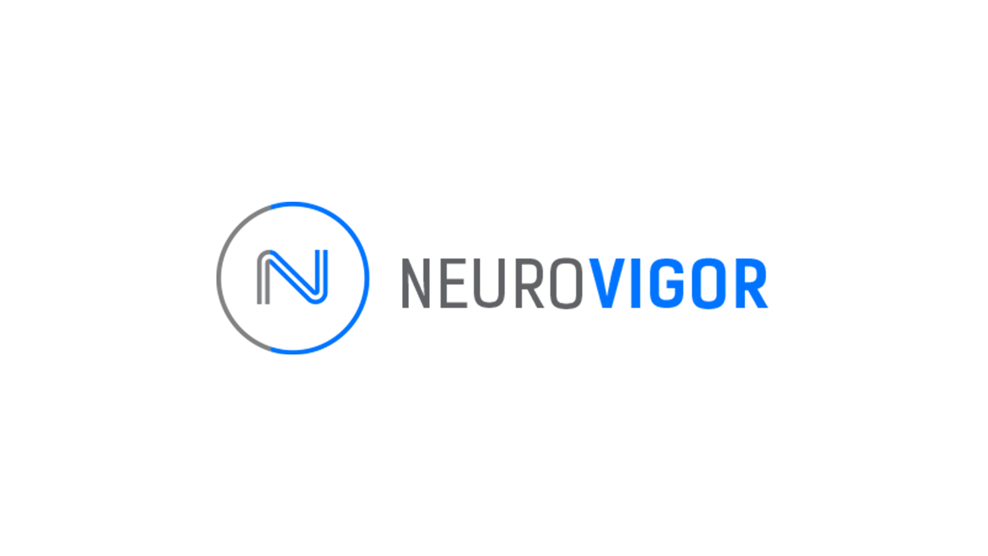
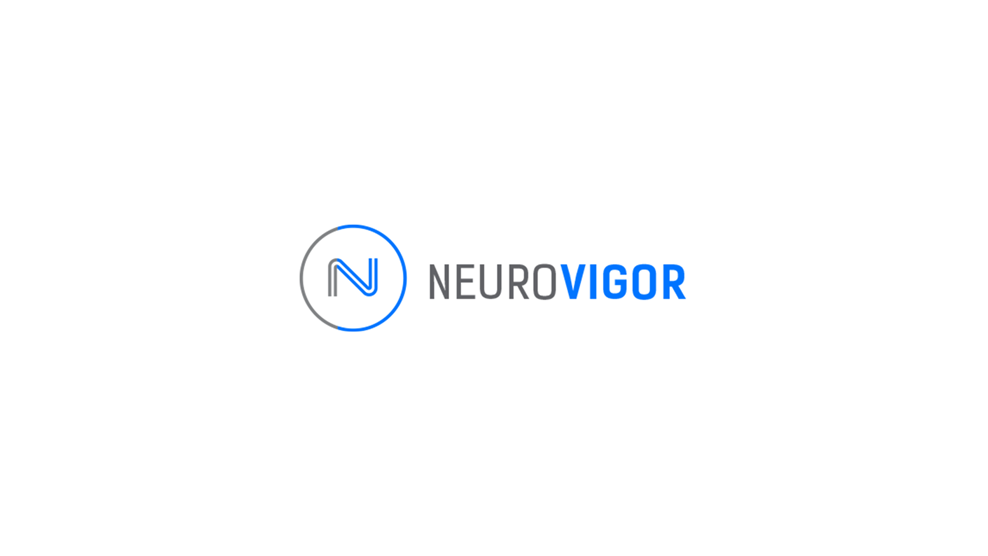
Edited tile images

Changed region(s): [[0.2126, 0.3363, 0.7895, 0.6115], [0.2429, 0.5809, 0.334, 0.6421]]

diff --git a/css/master.css b/css/master.css
@@ -360,7 +360,7 @@ blockquote {
 .tile {
     height: 300px;
     margin-bottom: 20px;
-    background-size: 160%;
+    background-size: 225%;
     background-position: center center;
     background-repeat: no-repeat;
     transition: .5s;
@@ -368,7 +368,7 @@ blockquote {
 }
 
 .tile:hover {
-    background-size: 200%;
+    background-size: 250%;
     transition: .5s;
 }
 
